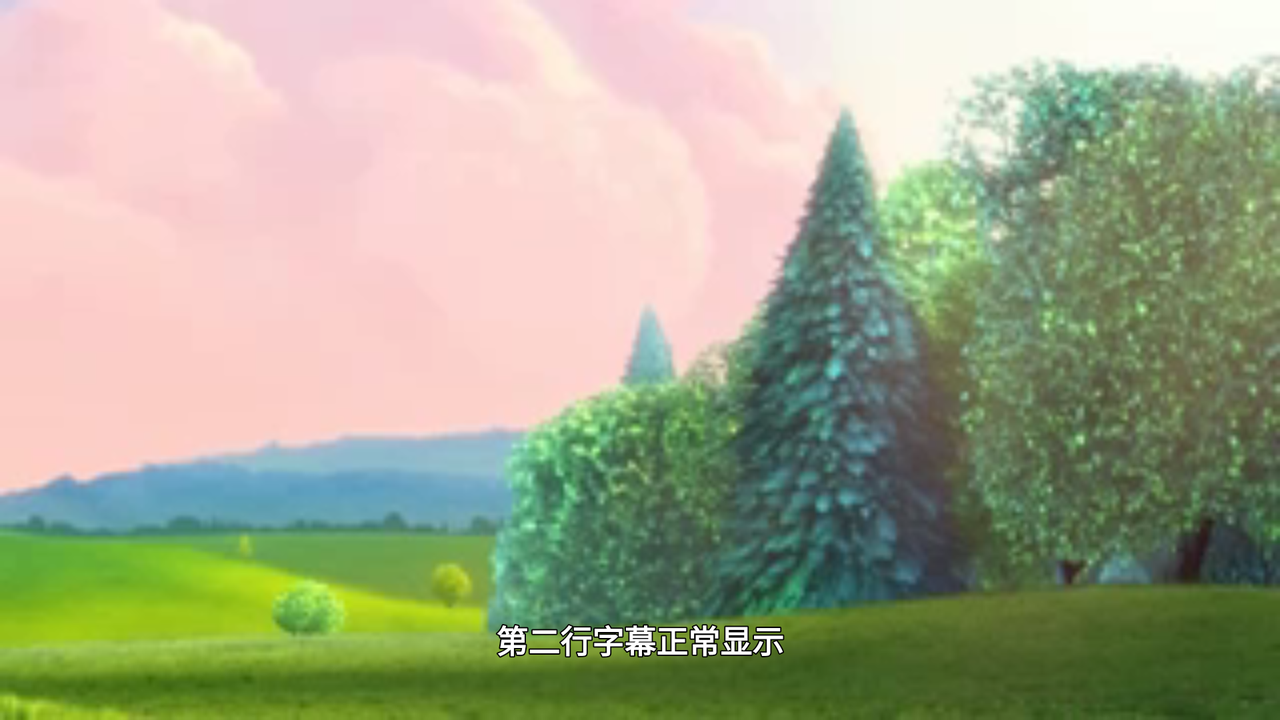
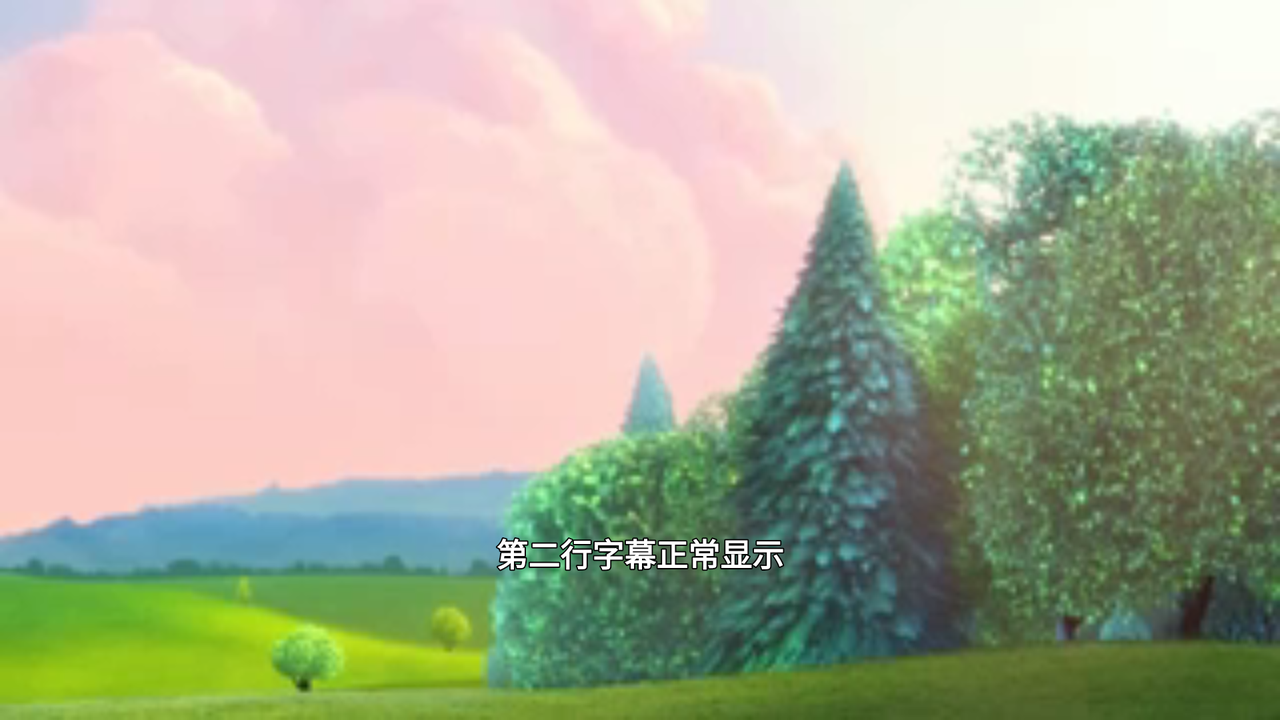
fix: 增强 WebDAV 兼容性并优化字幕位置
- PROPFIND 使用 Connection: close，避免个别服务端 keep-alive 解析错位
- 字幕整体上移，避免与控制栏重叠
- 补充 WebDAV 联调说明与最终字幕截图

diff --git a/app/src/main/java/com/juying/tv/data/source/webdav/WebDavClient.kt b/app/src/main/java/com/juying/tv/data/source/webdav/WebDavClient.kt
@@ -167,6 +167,7 @@ class WebDavClient(private val client: OkHttpClient) {
             .url(url)
             .method("PROPFIND", PROPFIND_BODY.toRequestBody("application/xml; charset=utf-8".toMediaType()))
             .header("Depth", depth.toString())
+            .header("Connection", "close")
             .header("User-Agent", USER_AGENT)
         if (config.username.isNotBlank()) {
             builder.header("Authorization", Credentials.basic(config.username, config.password))

diff --git a/app/src/main/java/com/juying/tv/ui/screens/PlayerScreen.kt b/app/src/main/java/com/juying/tv/ui/screens/PlayerScreen.kt
@@ -555,7 +555,7 @@ fun PlayerScreen(
                             )
                         )
                         subtitleView?.setFixedTextSize(TypedValue.COMPLEX_UNIT_SP, 24f)
-                        subtitleView?.setBottomPaddingFraction(0.14f)
+                        subtitleView?.setBottomPaddingFraction(0.20f)
                     }
                 },
                 update = { view ->

diff --git a/README.md b/README.md
@@ -15,7 +15,7 @@
 | 应用 | `com.juying.tv`，minSdk 28，targetSdk 34 |
 | 播放 | Media3 / ExoPlayer，使用电视硬件解码器 |
 
-界面按 960×540dp 的电视安全区设计，已在 API 28、1920×1080、320dpi 的 Android TV 模拟器上逐项验证（首页、扫描、海报墙、媒体库、合集、播放、外挂字幕、续播、儿童模式、手机扫码填写）。
+界面按 960×540dp 的电视安全区设计，已在 API 28、1920×1080、320dpi 的 Android TV 模拟器上逐项验证（首页、扫描、海报墙、媒体库、合集、播放、外挂字幕、续播、儿童模式、手机扫码填写），并用本地 WebDAV 服务联调了目录扫描、Range 流式播放与外挂字幕下载。夸克网盘需要你的真实账号 Cookie，未做账号侧联调。
 
 ## 安装
 
